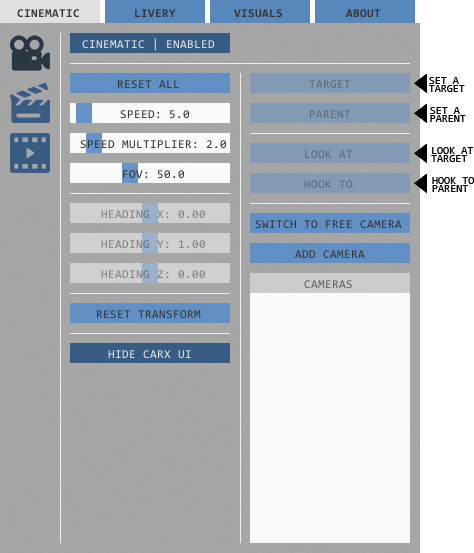
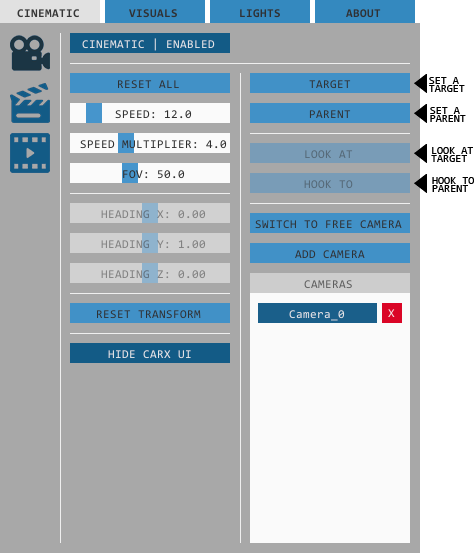
updated readme

diff --git a/README.md b/README.md
@@ -30,11 +30,13 @@ Consists of 3 tabs:
 There you can set the starting and the ending points of your replay.  
 ![Timeline](Images/timeline.png)  
 
-- Livery Share  
-![LiveryShare](Images/livery_share.png)  
+## Visuals
+![Visuals](Images/visuals.png)
 
-- Livery camera  
-![LiveryCam](Images/livery_camera.png)
+## Lights
+![Lights](Images/lights.png)  
+
+![World_Lights](Images/lights_world.png)
 ## Installation
 1. Install BepInEx mod loader if you haven't already  
 Extract files from BepInEx zip into your CarX Drift Racing Online folder
